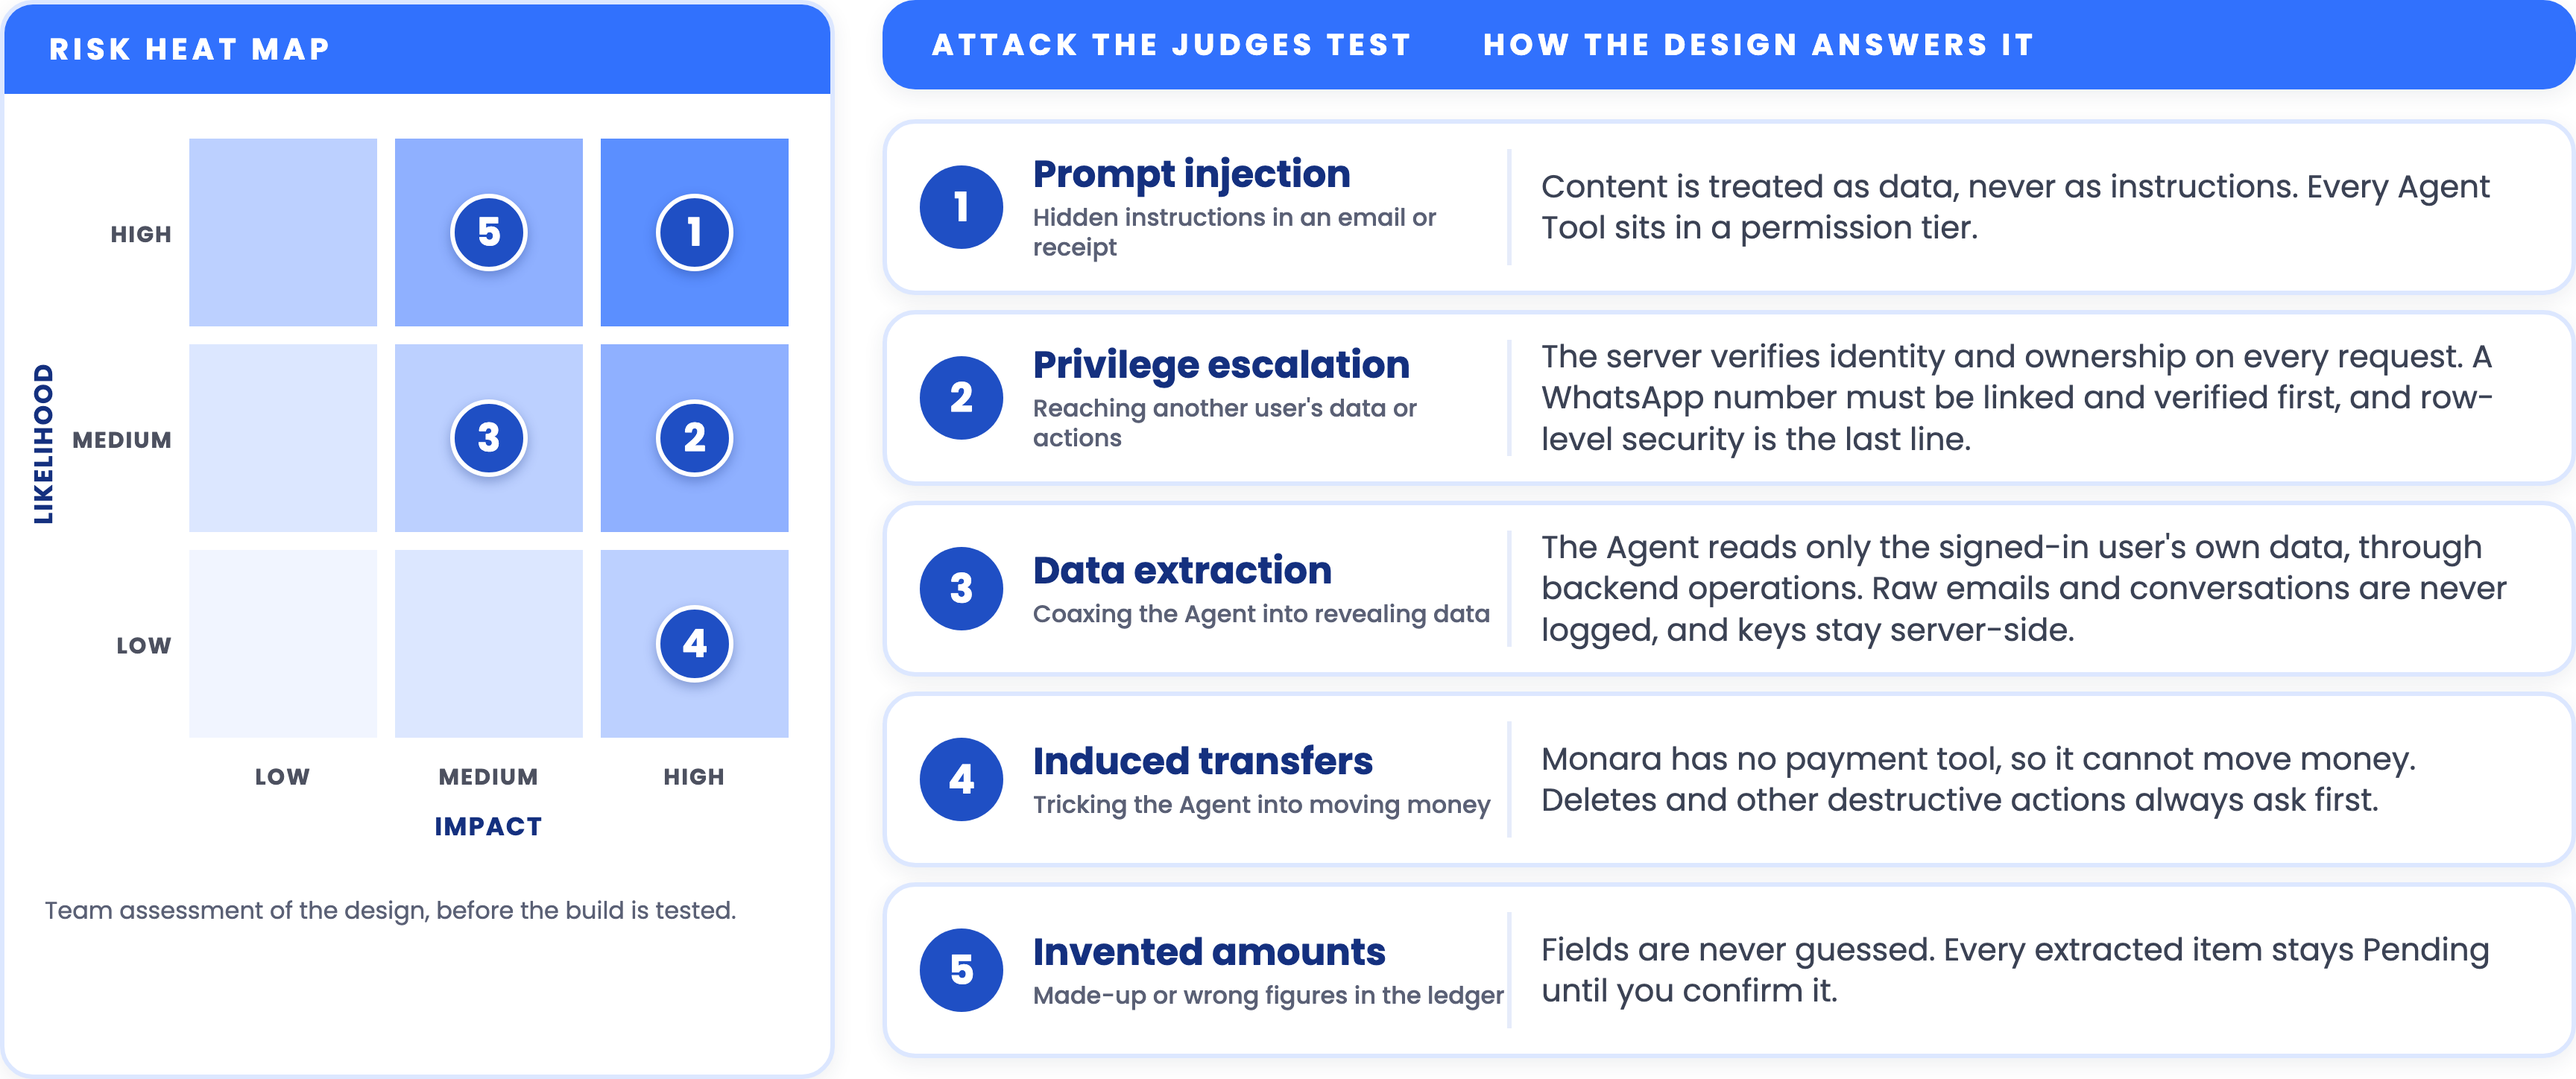
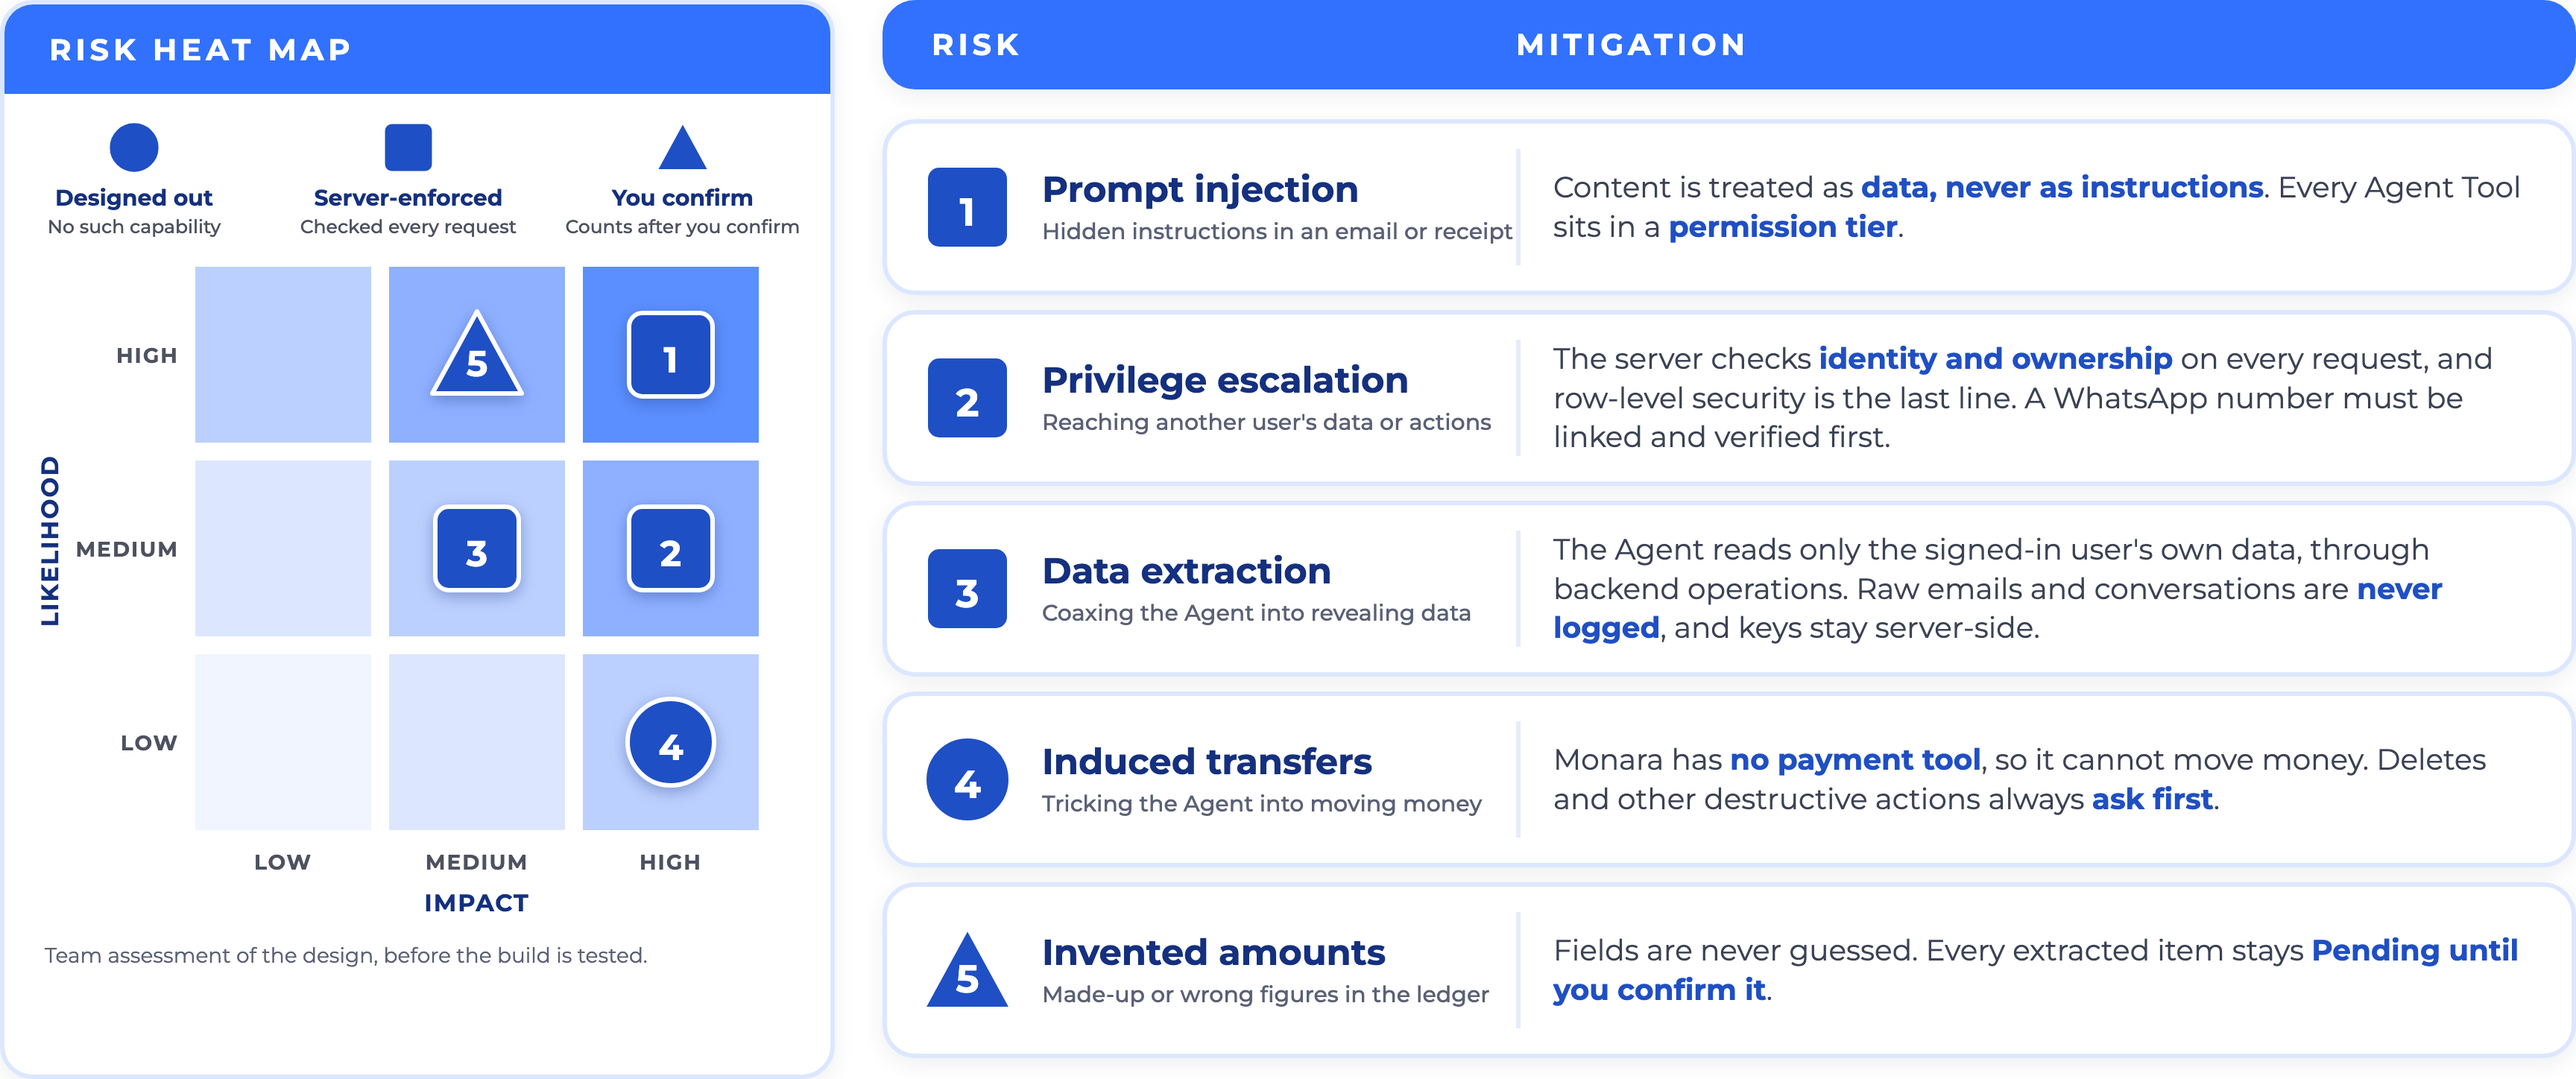
docs(deck): redesign slide 18 security heat map with defence shapes

diff --git a/deck/src/attack.html b/deck/src/attack.html
@@ -1,42 +1,60 @@
-<!doctype html><html><head><meta charset="utf-8"><link href="https://fonts.googleapis.com/css2?family=Poppins:wght@400;500;600;700;800&display=swap" rel="stylesheet">
-<style>*{margin:0;padding:0;box-sizing:border-box}html,body{width:1728px;height:724px;overflow:hidden;background:transparent;font-family:Poppins,sans-serif;color:#1b1b1b}
-h1{font-size:54px;font-weight:700;color:#191919;letter-spacing:-1px;height:80px}
-h1 span{color:#3171FD}
-.panel{position:absolute;left:0;top:96px;width:560px;height:724px;background:#fff;border:3px solid #dce7ff;border-radius:22px;box-shadow:0 4px 14px rgba(40,50,80,.08)}
-.ph{position:absolute;left:0;top:0;width:100%;height:60px;background:#3171FD;border-radius:19px 19px 0 0;color:#fff;font-weight:700;font-size:20px;letter-spacing:3px;display:flex;align-items:center;padding-left:30px}
-.cell{position:absolute;width:132px;height:132px;border:3px solid #fff}
-.mk{position:absolute;width:52px;height:52px;border-radius:50%;background:#1f4fc4;color:#fff;font-weight:700;font-size:26px;display:flex;align-items:center;justify-content:center;box-shadow:0 3px 8px rgba(20,48,127,.35);border:3px solid #fff}
-.ax{position:absolute;font-size:15px;font-weight:700;color:#4d5160;letter-spacing:1px}
-.row{position:absolute;left:592px;width:1136px;height:118px;background:#fff;border:3px solid #dce7ff;border-radius:22px;box-shadow:0 4px 14px rgba(40,50,80,.08);display:flex;align-items:center}
-.hd{background:#3171FD;border-color:#3171FD;height:60px;color:#fff;font-weight:700;font-size:20px;letter-spacing:3px}
-.n{width:56px;height:56px;border-radius:50%;background:#1f4fc4;color:#fff;font-weight:700;font-size:27px;display:flex;align-items:center;justify-content:center;margin:0 20px 0 22px;flex:none}
-.c1{width:318px;font-size:25px;font-weight:700;color:#14307f;line-height:1.2}
-.c1 small{display:block;font-size:16px;font-weight:500;color:#5a6075;margin-top:4px;line-height:1.25}
-.c2{flex:1;padding:0 26px 0 20px;font-size:21px;color:#3b4254;line-height:1.32;border-left:3px solid #e6ecfa;height:78px;display:flex;align-items:center}
-.hd .c1{margin-left:30px;color:#fff;font-size:20px;font-weight:700;width:370px}.hd .c2{color:#fff;font-size:20px;font-weight:700;border:none;padding-left:0}
-.cap{position:absolute;left:30px;top:658px;width:500px;font-size:16px;color:#5a6075;line-height:1.35}
-</style></head><body><div style="position:absolute;left:0;top:-96px;width:1728px;height:820px">
+<!doctype html><html><head><meta charset="utf-8"><link rel="stylesheet" href="theme.css"><link rel="stylesheet" href="base.css">
+<style>html,body{width:1728px;height:724px}
+.panel{position:absolute;left:0;top:0;width:560px;height:724px;background:#fff;border:3px solid var(--pale);border-radius:22px;box-shadow:0 4px 14px rgba(40,50,80,.08);overflow:hidden}
+.ph{position:absolute;left:0;top:0;width:100%;height:60px;background:var(--brand);color:#fff;font-weight:700;font-size:20px;letter-spacing:3px;display:flex;align-items:center;padding-left:30px}
+.lg{position:absolute;top:80px;width:168px;text-align:center}
+.lg svg{display:block;margin:0 auto 6px}
+.lg b{display:block;font-size:15px;font-weight:700;color:var(--navy);line-height:1.2}
+.lg span{display:block;font-size:12.5px;font-weight:500;color:var(--muted);line-height:1.3;margin-top:2px}
+.cell{position:absolute;width:124px;height:124px;border:3px solid #fff}
+.mk{position:absolute;width:64px;height:64px}
+.mk svg{position:absolute;inset:0;filter:drop-shadow(0 3px 5px rgba(20,48,127,.35))}
+.mk i{position:absolute;left:0;right:0;font-style:normal;font-weight:700;font-size:24px;color:#fff;text-align:center}
+.ax{position:absolute;font-size:14px;font-weight:700;color:var(--muted);letter-spacing:1px}
+.row{position:absolute;left:592px;width:1136px;height:118px;background:#fff;border:3px solid var(--pale);border-radius:22px;box-shadow:0 4px 14px rgba(40,50,80,.08);display:flex;align-items:center}
+.hd{background:var(--brand);border-color:var(--brand);height:60px;color:#fff;font-weight:700;font-size:20px;letter-spacing:3px}
+.n{position:relative;width:64px;height:64px;margin:0 18px 0 22px;flex:none}
+.n svg{position:absolute;inset:0}
+.n i{position:absolute;left:0;right:0;font-style:normal;font-weight:700;font-size:26px;color:#fff;text-align:center}
+.c1{width:318px;font-size:24px;font-weight:700;color:var(--navy);line-height:1.2}
+.c1 small{display:block;font-size:15px;font-weight:500;color:#5a6075;margin-top:4px;line-height:1.25}
+.c2{flex:1;padding:0 26px 0 22px;font-size:19.5px;color:#3b4254;line-height:1.35;border-left:3px solid var(--line);height:78px;display:flex;align-items:center}
+.c2 b{font-weight:700;color:var(--brand-dark)}
+.hd .c1{margin-left:30px;color:#fff;font-size:20px;width:392px}.hd .c2{color:#fff;font-size:20px;font-weight:700;border:none;padding-left:0}
+.cap{position:absolute;left:30px;width:500px;font-size:14px;color:#5a6075;line-height:1.35}
+</style></head><body>
 <div class="panel"><div class="ph">RISK HEAT MAP</div></div>
 <div id="g"></div>
-<div class="row hd" style="top:96px"><div class="c1">ATTACK THE JUDGES TEST</div><div class="c2">HOW THE DESIGN ANSWERS IT</div></div>
+<div class="row hd" style="top:0"><div class="c1">RISK</div><div class="c2">MITIGATION</div></div>
 <script>
+const COL='#1f4fc4';
+// circle = designed out, square = enforced by the server, triangle = you confirm
+const SH={
+ c:s=>`<svg width="${s}" height="${s}" viewBox="0 0 64 64"><circle cx="32" cy="32" r="29" fill="${COL}" stroke="#fff" stroke-width="3"/></svg>`,
+ s:s=>`<svg width="${s}" height="${s}" viewBox="0 0 64 64"><rect x="4" y="4" width="56" height="56" rx="9" fill="${COL}" stroke="#fff" stroke-width="3" stroke-linejoin="round"/></svg>`,
+ t:s=>`<svg width="${s}" height="${s}" viewBox="0 0 64 64"><path d="M32 3 L62 58 H2 Z" fill="${COL}" stroke="#fff" stroke-width="3" stroke-linejoin="round"/></svg>`
+};
+const topPct={c:0.32,s:0.32,t:0.36};
 const shade={2:'#f1f5ff',3:'#dce7ff',4:'#bcd0ff',5:'#8fb0ff',6:'#5b8fff'};
-let h='';const X0=124,Y0=186;
-for(let r=0;r<3;r++)for(let c=0;c<3;c++){const L=3-r,I=c+1;h+=`<div class="cell" style="left:${X0+c*138}px;top:${Y0+r*138}px;background:${shade[L+I]}"></div>`}
-const mk={1:[2,0],5:[1,0],2:[2,1],3:[1,1],4:[2,2]};
-for(const k in mk){const [c,r]=mk[k];h+=`<div class="mk" style="left:${X0+c*138+40}px;top:${Y0+r*138+40}px">${k}</div>`}
-['HIGH','MEDIUM','LOW'].forEach((t,i)=>h+=`<div class="ax" style="left:40px;top:${Y0+i*138+56}px;width:76px;text-align:right">${t}</div>`);
-['LOW','MEDIUM','HIGH'].forEach((t,i)=>h+=`<div class="ax" style="left:${X0+i*138}px;top:${Y0+420}px;width:132px;text-align:center">${t}</div>`);
-h+=`<div class="ax" style="left:${X0}px;top:${Y0+452}px;width:408px;text-align:center;font-size:17px;color:#14307f">IMPACT</div>`;
-h+=`<div class="ax" style="left:-26px;top:${Y0+195}px;width:110px;text-align:center;font-size:17px;color:#14307f;transform:rotate(-90deg)">LIKELIHOOD</div>`;
-h+=`<div class="cap" style="left:30px;top:${Y0+510}px">Team assessment of the design, before the build is tested.</div>`;
+let h='';const X0=128,Y0=176,P=130,W=124;
+const legend=[['c','Designed out','No such capability'],['s','Server-enforced','Checked every request'],['t','You confirm','Counts after you confirm']];
+legend.forEach((l,i)=>h+=`<div class="lg" style="left:${i*184+6}px">${SH[l[0]](38)}<b>${l[1]}</b><span>${l[2]}</span></div>`);
+for(let r=0;r<3;r++)for(let c=0;c<3;c++){const L=3-r,I=c+1;h+=`<div class="cell" style="left:${X0+c*P}px;top:${Y0+r*P}px;background:${shade[L+I]}"></div>`}
+// risk number: [impact col, likelihood row, shape]
+const mk={1:[2,0,'s'],5:[1,0,'t'],2:[2,1,'s'],3:[1,1,'s'],4:[2,2,'c']};
+for(const k in mk){const [c,r,sh]=mk[k];h+=`<div class="mk" style="left:${X0+c*P+30}px;top:${Y0+r*P+30}px">${SH[sh](64)}<i style="top:${topPct[sh]*64}px;line-height:${sh==='t'?30:30}px">${k}</i></div>`}
+['HIGH','MEDIUM','LOW'].forEach((t,i)=>h+=`<div class="ax" style="left:36px;top:${Y0+i*P+54}px;width:84px;text-align:right">${t}</div>`);
+['LOW','MEDIUM','HIGH'].forEach((t,i)=>h+=`<div class="ax" style="left:${X0+i*P}px;top:${Y0+3*P+4}px;width:${W}px;text-align:center">${t}</div>`);
+h+=`<div class="ax" style="left:${X0}px;top:${Y0+3*P+30}px;width:${3*P-6}px;text-align:center;font-size:16px;color:var(--navy)">IMPACT</div>`;
+h+=`<div class="ax" style="left:-22px;top:${Y0+180}px;width:110px;text-align:center;font-size:16px;color:var(--navy);transform:rotate(-90deg)">LIKELIHOOD</div>`;
+h+=`<div class="cap" style="top:${Y0+3*P+66}px">Team assessment of the design, before the build is tested.</div>`;
 const rows=[
-["Prompt injection","Hidden instructions in an email or receipt","Content is treated as data, never as instructions. Every Agent Tool sits in a permission tier."],
-["Privilege escalation","Reaching another user's data or actions","The server verifies identity and ownership on every request. A WhatsApp number must be linked and verified first, and row-level security is the last line."],
-["Data extraction","Coaxing the Agent into revealing data","The Agent reads only the signed-in user's own data, through backend operations. Raw emails and conversations are never logged, and keys stay server-side."],
-["Induced transfers","Tricking the Agent into moving money","Monara has no payment tool, so it cannot move money. Deletes and other destructive actions always ask first."],
-["Invented amounts","Made-up or wrong figures in the ledger","Fields are never guessed. Every extracted item stays Pending until you confirm it."]
+['s',"Prompt injection","Hidden instructions in an email or receipt","Content is treated as <b>data, never as instructions</b>. Every Agent Tool sits in a <b>permission tier</b>."],
+['s',"Privilege escalation","Reaching another user's data or actions","The server checks <b>identity and ownership</b> on every request, and row-level security is the last line. A WhatsApp number must be linked and verified first."],
+['s',"Data extraction","Coaxing the Agent into revealing data","The Agent reads only the signed-in user's own data, through backend operations. Raw emails and conversations are <b>never logged</b>, and keys stay server-side."],
+['c',"Induced transfers","Tricking the Agent into moving money","Monara has <b>no payment tool</b>, so it cannot move money. Deletes and other destructive actions always <b>ask first</b>."],
+['t',"Invented amounts","Made-up or wrong figures in the ledger","Fields are never guessed. Every extracted item stays <b>Pending until you confirm it</b>."]
 ];
-rows.forEach((r,i)=>{h+=`<div class="row" style="top:${176+i*128}px"><div class="n">${i+1}</div><div class="c1">${r[0]}<small>${r[1]}</small></div><div class="c2">${r[2]}</div></div>`});
+rows.forEach((r,i)=>{h+=`<div class="row" style="top:${80+i*128}px"><div class="n">${SH[r[0]](64)}<i style="top:${topPct[r[0]]*64}px;line-height:30px">${i+1}</i></div><div class="c1">${r[1]}<small>${r[2]}</small></div><div class="c2"><span>${r[3]}</span></div></div>`});
 document.getElementById('g').innerHTML=h;
-</script></div></body></html>
+</script></body></html>
